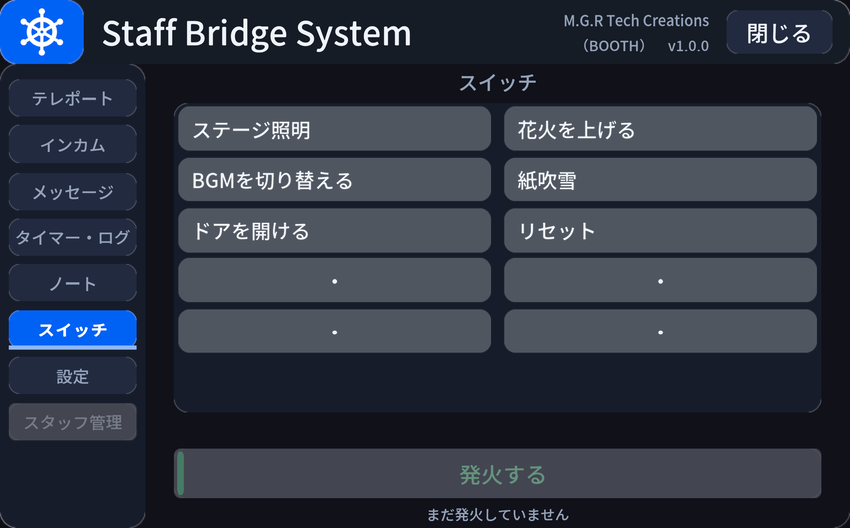
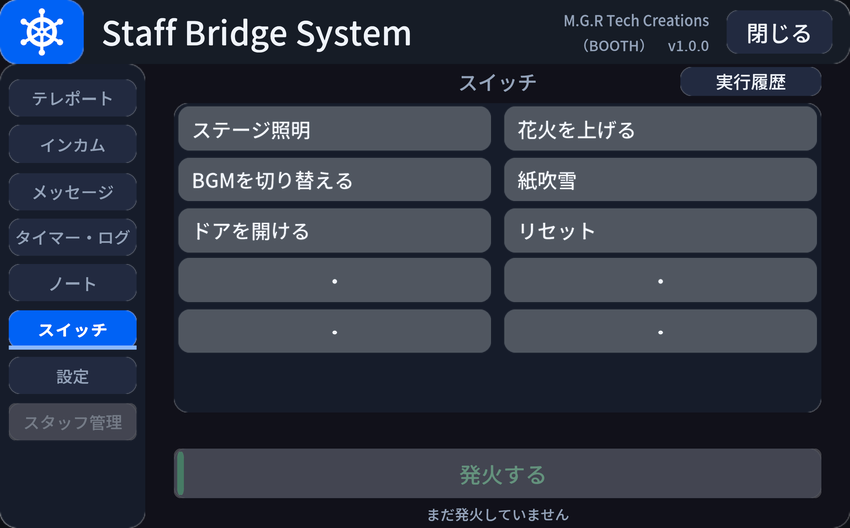
ノートタブとスイッチの説明を実装に合わせる
- ノート: 共有/自分用の50/50・メモ12行上限・視界の行数と予算バーの説明へ差し替え（旧「3択」を廃止）
- スイッチ: 実行履歴（直近64件・全スタッフ共通）を追記
- reference: ノート本文の1ページ256字上限
- 画像3枚を最新UIに更新

Changed region(s): [[0.7953, 0.1212, 0.9788, 0.1818]]

diff --git a/docs/staff-bridge-system/features.md b/docs/staff-bridge-system/features.md
@@ -16,8 +16,8 @@
 | 一斉メッセージ | 全スタッフ、宛先グループ、選んだスタッフへ定型文を送る。グループと個人はまとめて選べ、複数に当てはまる人にも1通だけ届く | [使い方](usage.md#broadcast) / [設定](reference.md#broadcast) |
 | タイマー | 全員に見える共有タイマーと、自分だけのタイマー・ストップウォッチ | [使い方](usage.md#timer) / [設定](reference.md#timer) |
 | 入退室ログ | 誰がいつ入って出たかの記録 | [使い方](usage.md#timer) / [設定](reference.md#join-log) |
-| ノート | 進行台本の閲覧と、自分だけの走り書きメモ。1ページを視界の右下に出しておける | [使い方](usage.md#note) / [設定](reference.md#cue) |
-| スイッチ | 手元からワールド内のギミックへイベントを送る | [使い方](usage.md#switch) / [設定](reference.md#trigger) |
+| ノート | 進行台本の閲覧と、自分だけの走り書きメモ。台本とメモを視界の右下に出しておける | [使い方](usage.md#note) / [設定](reference.md#cue) |
+| スイッチ | 手元からワールド内のギミックへイベントを送る。誰がいつ押したかの履歴が残る | [使い方](usage.md#switch) / [設定](reference.md#trigger) |
 | 通知ログ | 受信・タイマーの時間切れ・人の出入りを、視界の隅の1本のログにまとめて流す | [使い方](usage.md#notice-log) / [設定](reference.md#notice-log) |
 | スタッフ管理 | 在室者を当日スタッフにする／当日スタッフを外す。常設スタッフだけに出るタブ | [使い方](usage.md#staff-manage) / [設定](reference.md#grant-panel) |
 | 設定 | 音量・UI サイズ・発話方式・通知ログの位置を各自で調整する。再入場しても残る | [使い方](usage.md#settings) / [既定値](reference.md#settings-defaults) |

diff --git a/docs/staff-bridge-system/reference.md b/docs/staff-bridge-system/reference.md
@@ -206,11 +206,11 @@
 | 項目 | 型 | 既定 | 内容 |
 |---|---|---|---|
 | ページ名 | string[] | 開場前 / 本編 / 終了後 | ページ切替ボタンに出す名前。**ページ本文と同じ数・同じ順**にする |
-| ページ本文 | string[] | 3件 | 各ページの本文。TMP のリッチテキストが使える |
+| ページ本文 | string[] | 3件 | 各ページの本文。TMP のリッチテキストが使える。**1ページ256字まで**（タグ・改行も含む） |
 
 通常は Inspector ではなく、セットアップ窓の **カスタマイズ ＞ メニュー構成 ＞ ノート編集を開く**（または `Tools ＞ MGR ＞ Staff Bridge System ＞ ノート編集`）から編集してください。ページの追加・並べ替え・本文の編集がまとめて行え、2つの配列の数が食い違う心配もありません。
 
-ページは最大6枚です。下の入力欄は各自の走り書きメモで、同期せず、次に来たときも残ります。
+ページは最大6枚・1ページの本文は256字までです（超えるとノート編集の「シーンへ適用」が止まります。Inspector 直編集のすり抜けは[診断・修復](troubleshoot.md)が知らせます）。右の入力欄は各自の走り書きメモで、同期せず、次に来たときも残ります（欄に見えている12行が上限）。
 
 ---
 

diff --git a/docs/staff-bridge-system/changelog.md b/docs/staff-bridge-system/changelog.md
@@ -24,7 +24,7 @@
 - 共有タイマー（全員に同じ残り時間。開始と取消は2回押し）、ローカルタイマー、ストップウォッチ
 - 入退室ログ（入室＝緑・退室＝赤。全画面の一覧ページつき）
 - ノート（進行台本のページ表示と、自分だけの走り書きメモ）
-- スイッチ（手元からワールド内のギミックへイベントを送る。最後の発火内容は同期表示）
+- スイッチ（手元からワールド内のギミックへイベントを送る。誰がいつ押したかの履歴を直近64件まで同期表示）
 
 **通知ログ**
 
